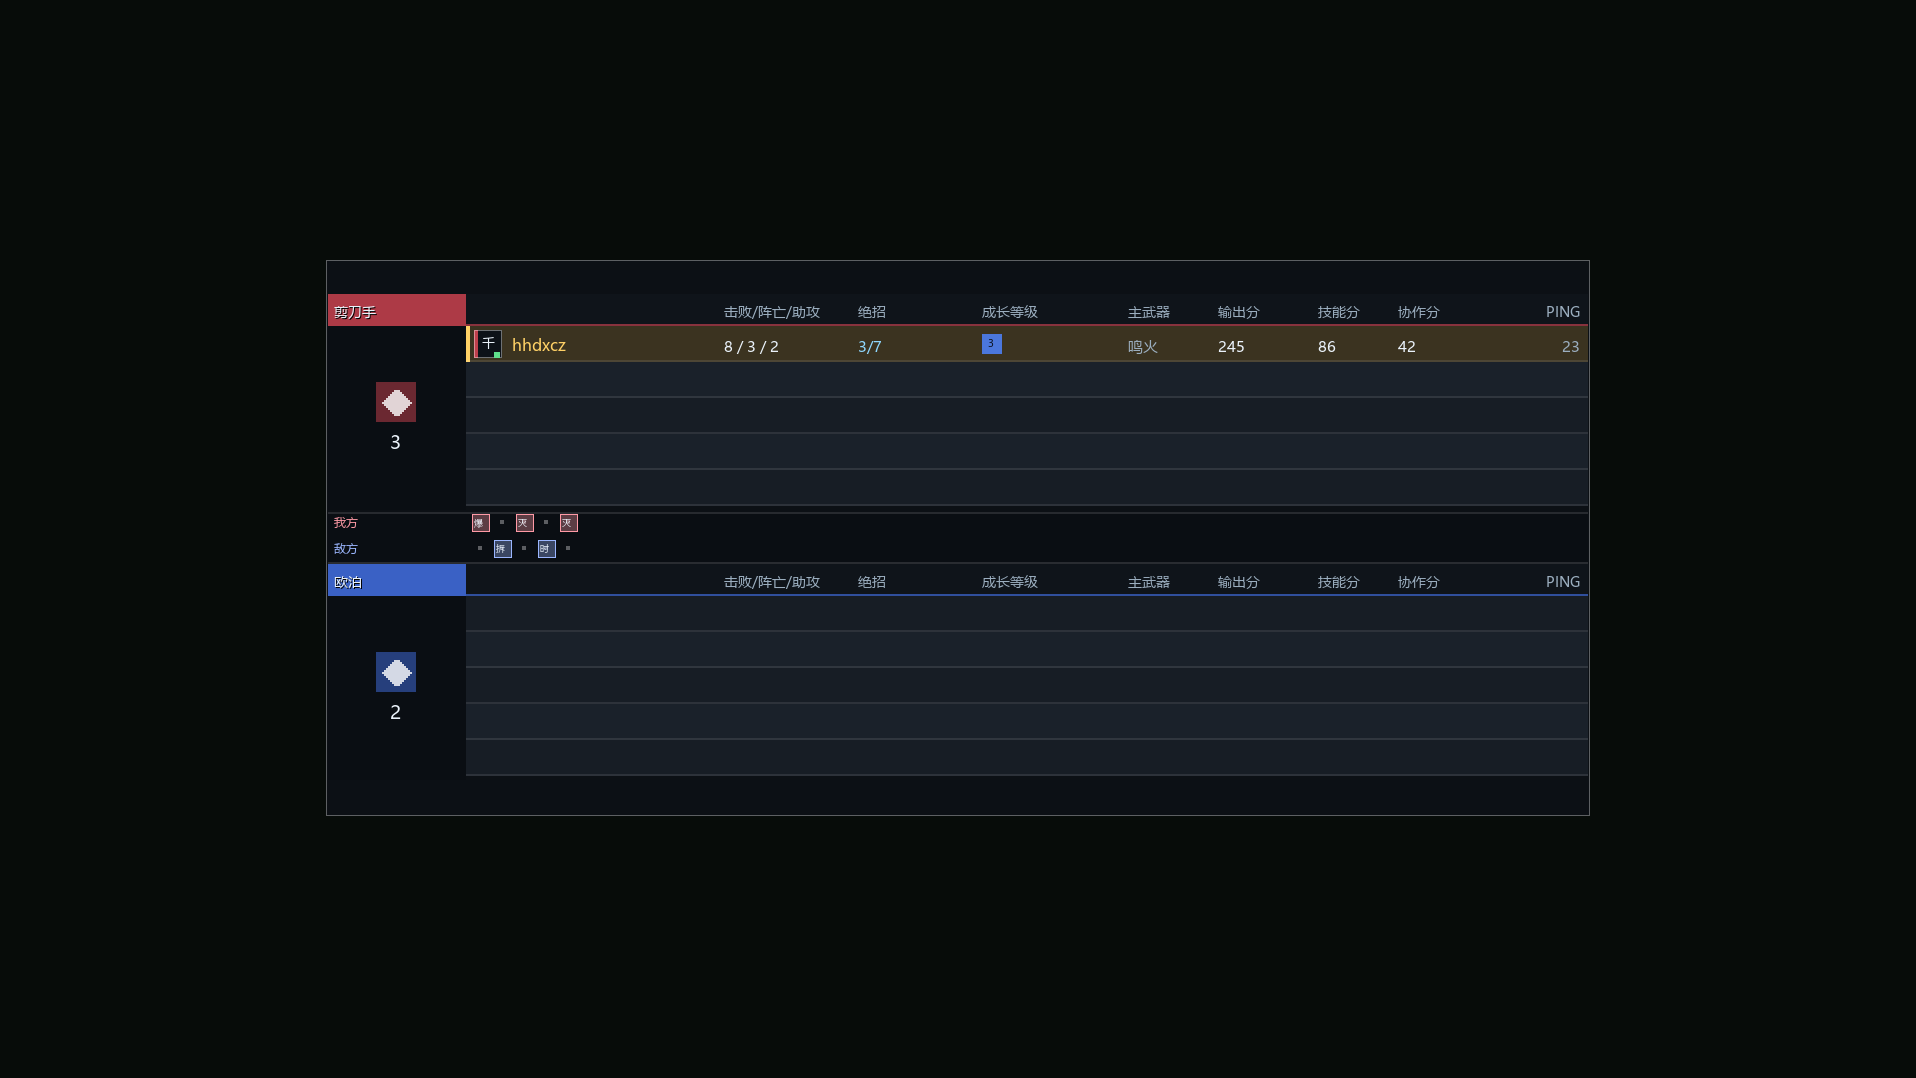
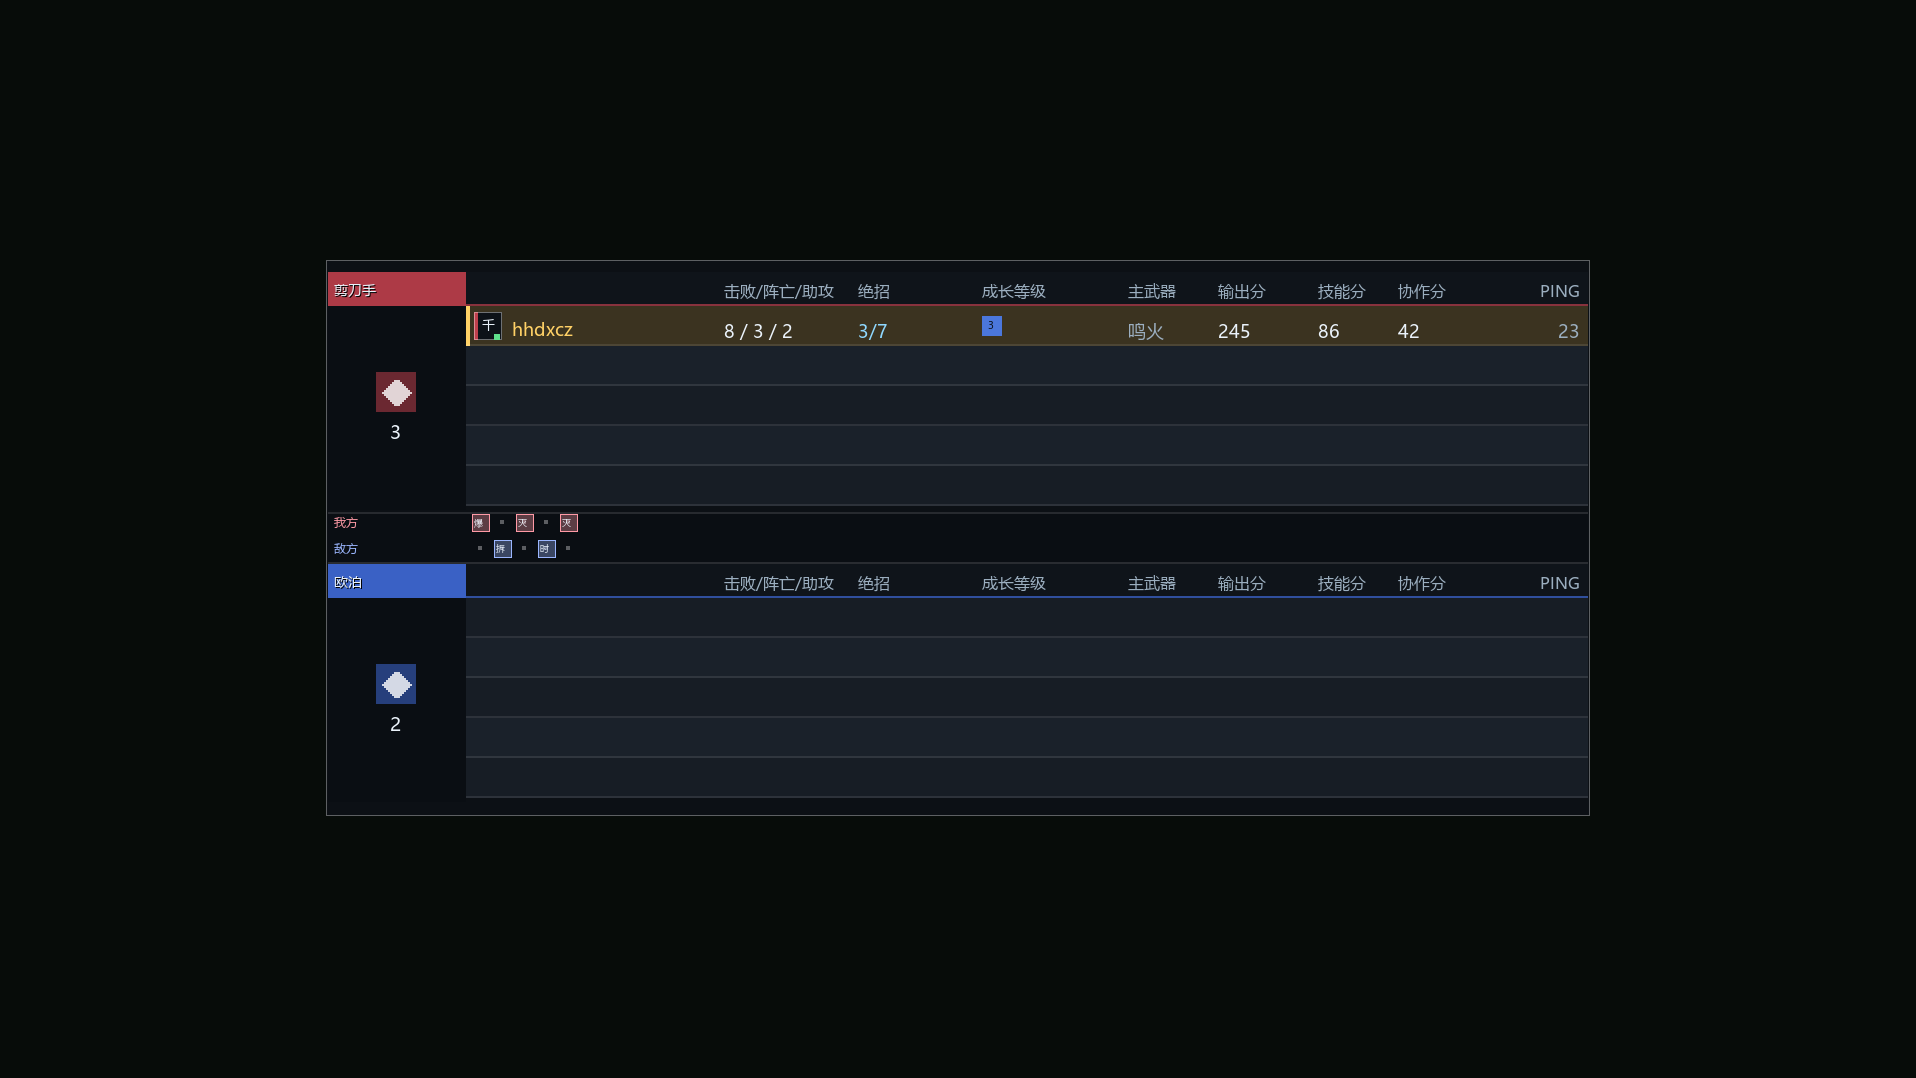
feat: 计分板字体放大一档
- 列头 0.78→0.90、数值 0.88→1.00、名字 0.92→1.05（9px 基准 → 约 8.1/9/9.5 逻辑像素，物理约 16~19px）
- 行高 18→20、列头行 16→17，行内头像/名字/数值/成长方块位置同步微调
- 面板屏占比保持 66%×51.5%，字号变大后列仍对齐不重叠

diff --git a/common/src/main/java/com/hhdxcz/strinova/client/hud/StrinovaScoreboardOverlay.java b/common/src/main/java/com/hhdxcz/strinova/client/hud/StrinovaScoreboardOverlay.java
@@ -58,8 +58,8 @@ public final class StrinovaScoreboardOverlay {
     private static final float SCREEN_HEIGHT_RATIO = 0.515F;
     private static final int MAX_PANEL_WIDTH = 1020;
     private static final int MIN_PANEL_WIDTH = 300;
-    private static final int HEADER_HEIGHT = 16;
-    private static final int ROW_HEIGHT = 18;
+    private static final int HEADER_HEIGHT = 17;
+    private static final int ROW_HEIGHT = 20;
     private static final int ROW_COUNT = 5;
     private static final int BOTTOM_PAD = 3;
     private static final int MIDDLE_HEIGHT = 26;
@@ -67,9 +67,9 @@ public final class StrinovaScoreboardOverlay {
     private static final int ROUND_CELL = 9;
     private static final int ROUND_STEP = 11;
     /** 内容文字缩放：按真实计分板比例，正文/列头略放大一档。 */
-    private static final float HEADER_TEXT_SCALE = 0.78F;
-    private static final float VALUE_TEXT_SCALE = 0.88F;
-    private static final float NAME_TEXT_SCALE = 0.92F;
+    private static final float HEADER_TEXT_SCALE = 0.90F;
+    private static final float VALUE_TEXT_SCALE = 1.00F;
+    private static final float NAME_TEXT_SCALE = 1.05F;
 
     private StrinovaScoreboardOverlay() {
     }
@@ -275,30 +275,30 @@ public final class StrinovaScoreboardOverlay {
 
             int avatarX = contentX + anchors[0];
             int accentColor = agentAccent(entry.agentName(), accent);
-            painter.rect(avatarX, rowY + 2, 14, 14, 0xFF0D1218);
-            painter.rect(avatarX, rowY + 2, 2, 14, accentColor);
-            painter.border(avatarX, rowY + 2, 14, 14, 0x66FFFFFF, 1);
+            painter.rect(avatarX, rowY + 3, 14, 14, 0xFF0D1218);
+            painter.rect(avatarX, rowY + 3, 2, 14, accentColor);
+            painter.border(avatarX, rowY + 3, 14, 14, 0x66FFFFFF, 1);
             String initial = entry.agentName() == null || entry.agentName().isEmpty()
                     ? "?" : entry.agentName().substring(0, 1);
-            painter.textScaled(initial, avatarX + (14 - painter.textWidth(initial) * 0.75F) / 2, rowY + 4,
+            painter.textScaled(initial, avatarX + (14 - painter.textWidth(initial) * 0.75F) / 2, rowY + 5,
                     0.75F, TEXT, false);
             if (entry.status() == StrinovaScoreboardState.Status.ALIVE) {
-                painter.rect(avatarX + 10, rowY + 13, 3, 3, GREEN);
+                painter.rect(avatarX + 10, rowY + 14, 3, 3, GREEN);
             }
             int nameX = avatarX + 19;
             String name = entry.name() == null ? "" : entry.name();
-            painter.textScaled(name, nameX, rowY + 4, NAME_TEXT_SCALE,
+            painter.textScaled(name, nameX, rowY + 5, NAME_TEXT_SCALE,
                     self ? GOLD : dead ? TEXT_DIM : TEXT, false);
 
-            int valueY = rowY + 5;
+            int valueY = rowY + 6;
             painter.textScaled(entry.kills() + " / " + entry.deaths() + " / " + entry.assists(),
                     contentX + anchors[1], valueY, VALUE_TEXT_SCALE, TEXT, false);
             painter.textScaled(entry.ultimatePoints() + "/" + entry.ultimateMax(),
                     contentX + anchors[2], valueY, VALUE_TEXT_SCALE, 0xFF8FD8FF, false);
 
             int growthColor = entry.growthLevel() >= 2 ? 0xFFDEB639 : 0xFF4B77DC;
-            painter.rect(contentX + anchors[3], rowY + 4, 10, 10, growthColor);
-            painter.textScaled(String.valueOf(entry.growthLevel()), contentX + anchors[3] + 3, rowY + 5,
+            painter.rect(contentX + anchors[3], rowY + 5, 10, 10, growthColor);
+            painter.textScaled(String.valueOf(entry.growthLevel()), contentX + anchors[3] + 3, rowY + 6,
                     0.6F, 0xFF0A111C, false);
 
             painter.textScaled(entry.weaponName() == null ? "" : entry.weaponName(),
